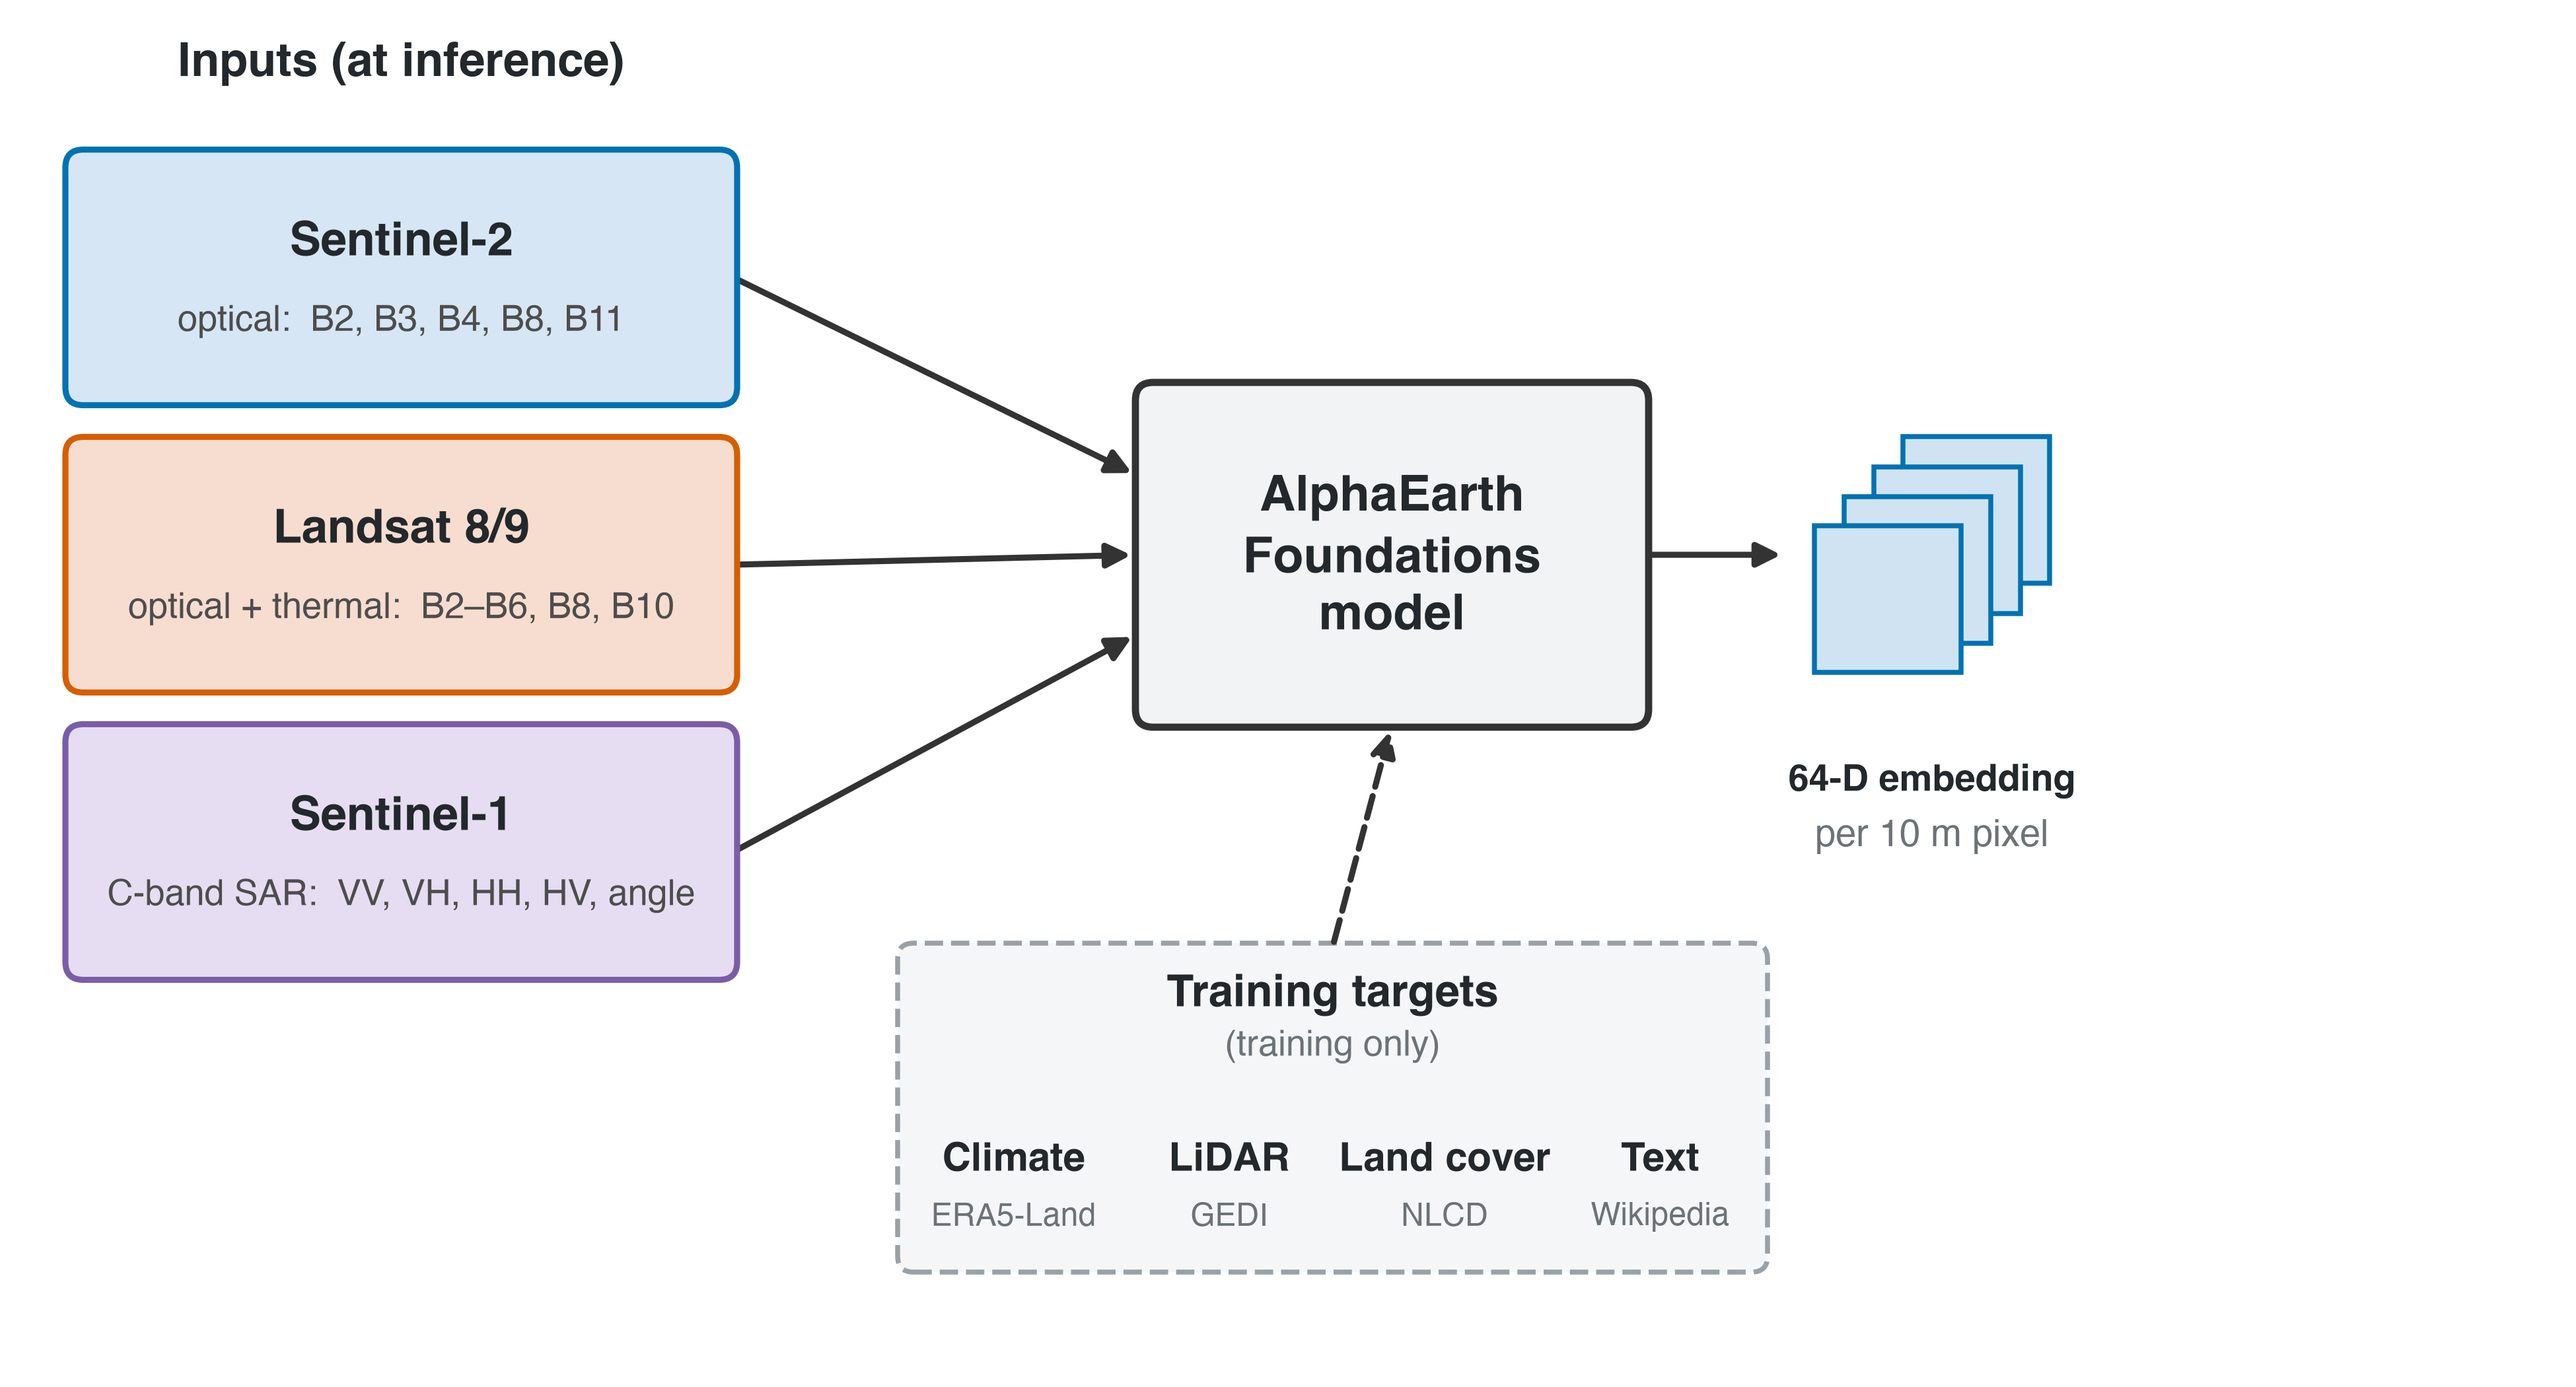
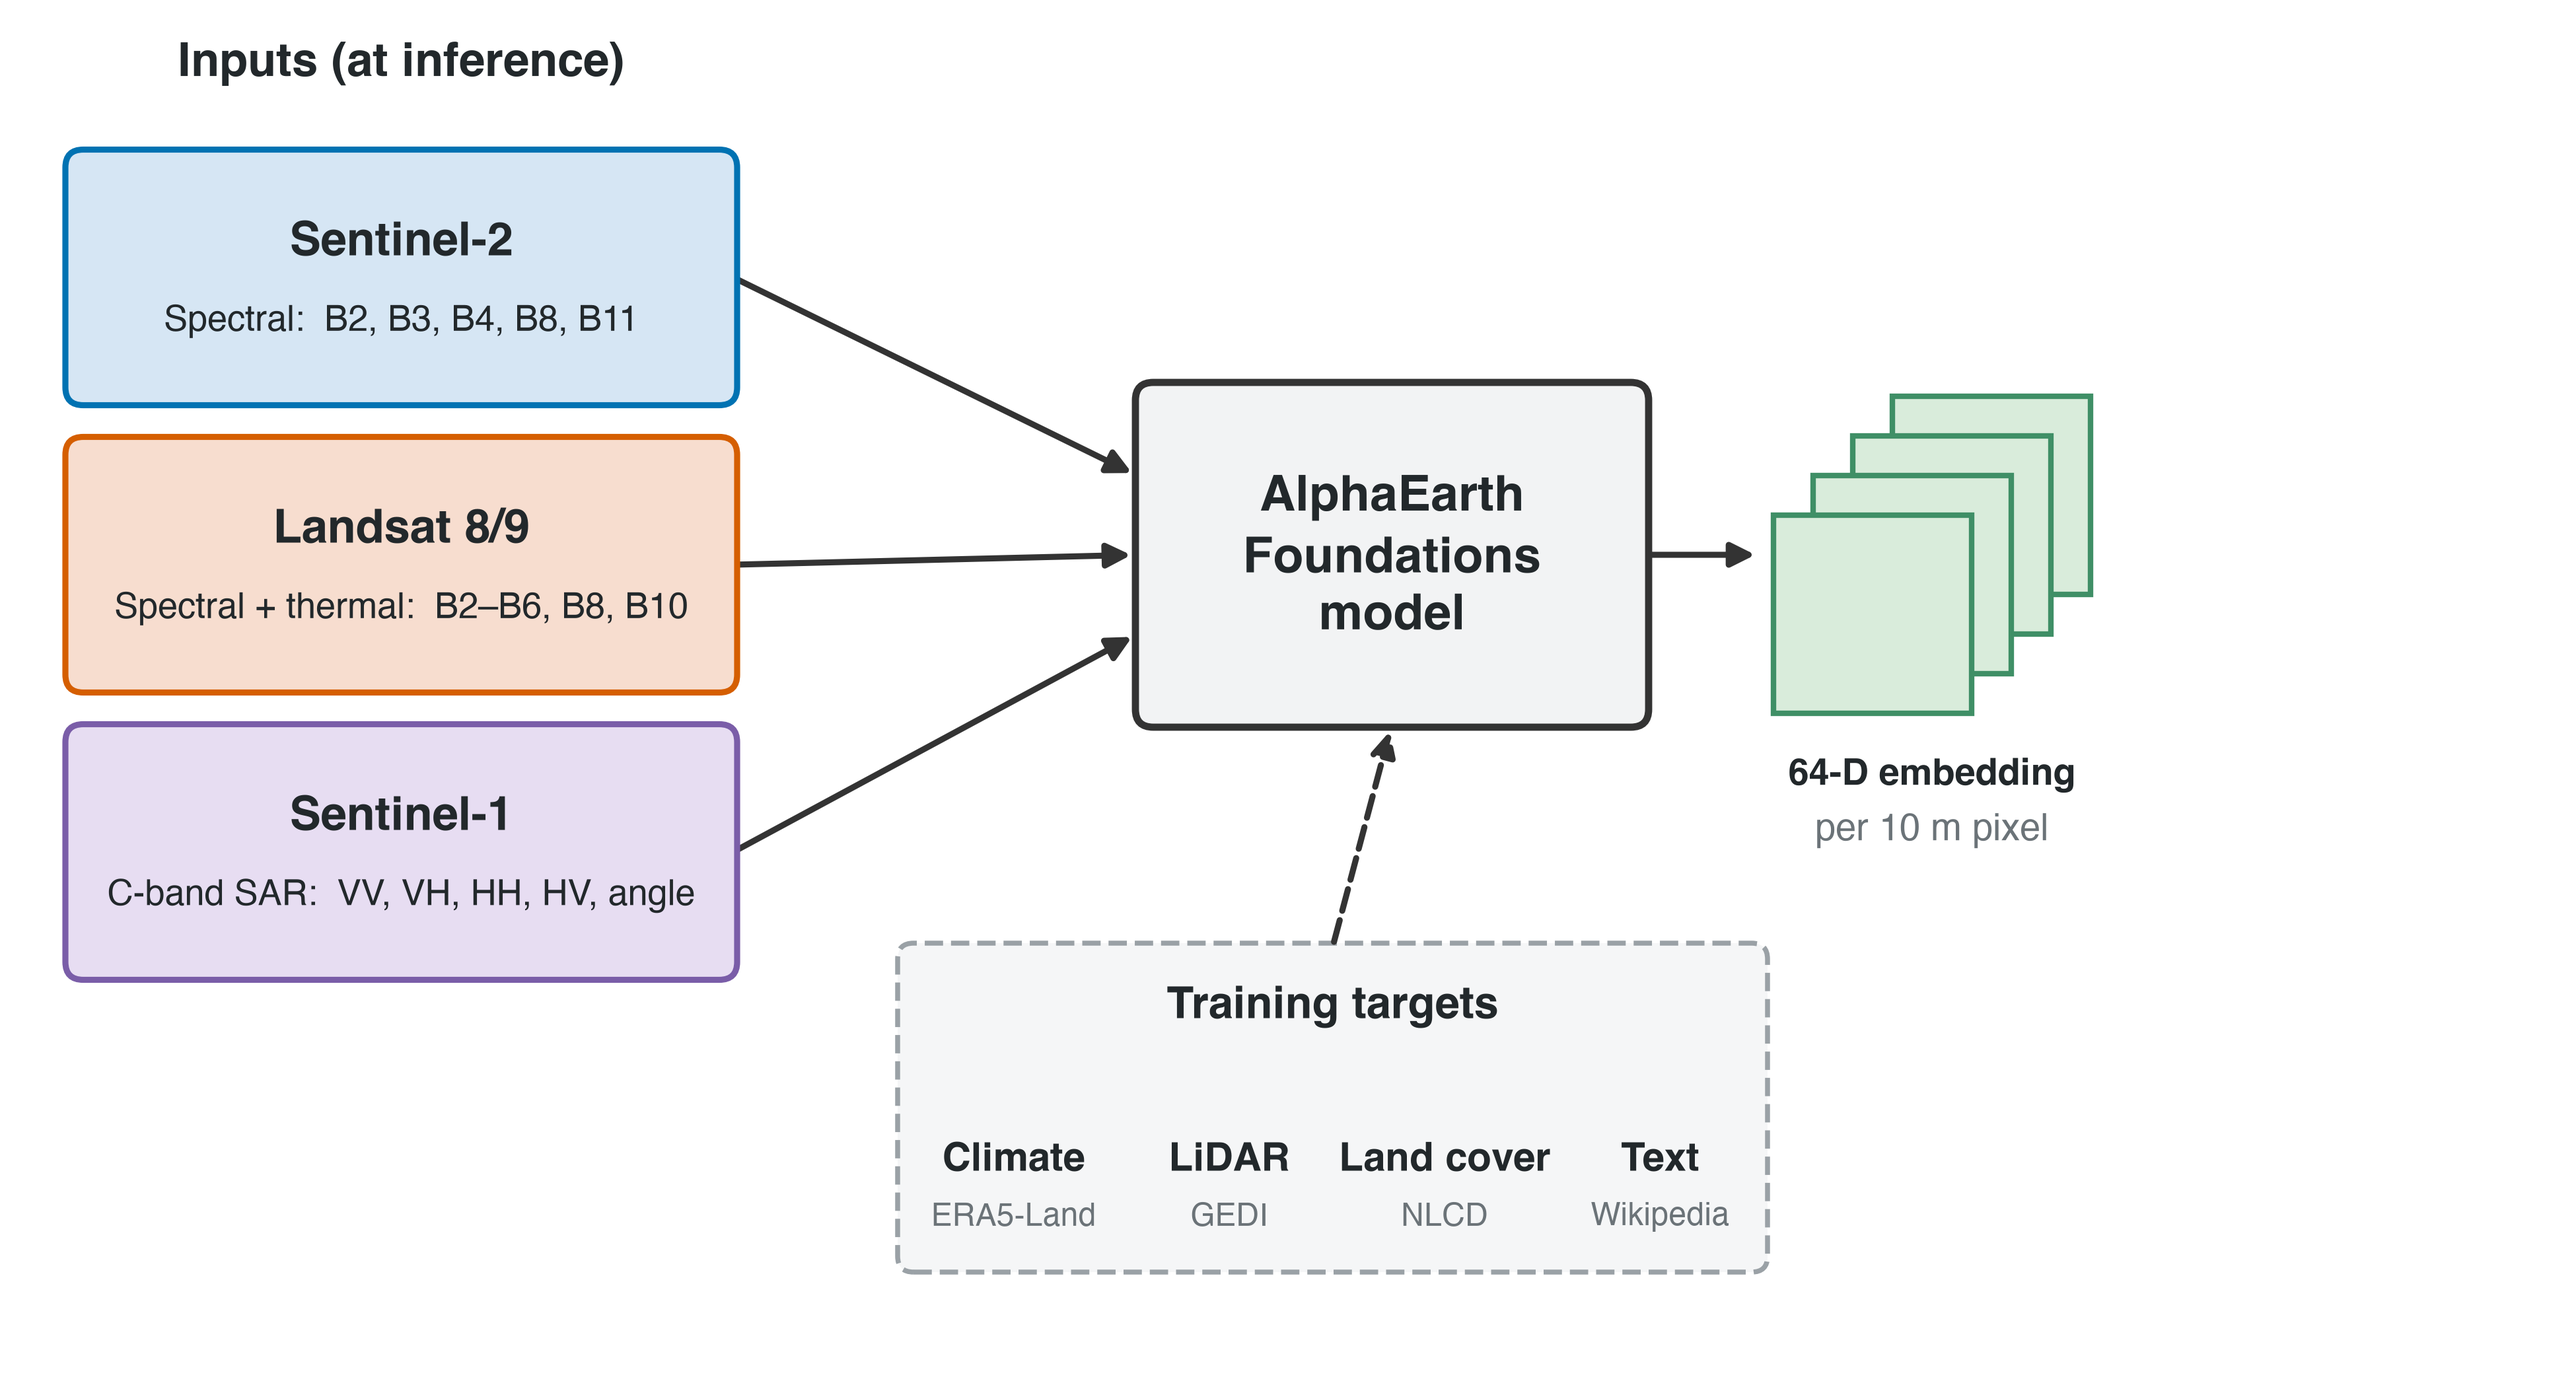
pres_03_b: drop (training only), bigger green embedding stack, black input text, 'Spectral'
Removed the (training only) sub-line, enlarged the output stack and recolored it
green (distinct from Sentinel-2 blue), made all input-box text black, and relabelled
the optical descriptors as 'Spectral'.

diff --git a/presentation/scripts/pres_03_aef_schematic_b.py b/presentation/scripts/pres_03_aef_schematic_b.py
@@ -24,7 +24,9 @@ OUT = os.path.join(ROOT, "presentation", "figures")
 TEXT, MUTED, ARROW = "#22282B", "#6B7378", "#333333"
 MODEL_FILL, MODEL_EDGE = "#F2F3F4", "#333333"
 TGT_FILL, TGT_EDGE = "#F5F6F7", "#9AA1A6"
-EMB_FILL, EMB_EDGE = "#cfe3f2", "#0072B2"
+EMB_FILL, EMB_EDGE = "#d9ecdb", "#3f8f66"        # green output, distinct from Sentinel-2 blue
+EMB_S, EMB_OFF, EMB_N = 1.0, 0.2, 4
+EMB_BBOX = EMB_S + (EMB_N - 1) * EMB_OFF
 plt.rcParams.update({"font.family": "sans-serif",
                      "font.sans-serif": ["Helvetica", "Arial", "DejaVu Sans"]})
 FS_SECTION, FS_TITLE, FS_SUB, FS_MODEL = 17, 17, 13, 18
@@ -32,8 +34,8 @@ FS_TGT, FS_TGT_EX, FS_EMB = 14.5, 11.5, 13.5
 
 FIG_W, FIG_H = 13.0, 7.0
 SENSORS = [  # (title, sub, fill, edge, y_center)
-    ("Sentinel-2", "optical:  B2, B3, B4, B8, B11", "#d6e6f4", "#0072B2", 5.6),
-    ("Landsat 8/9", "optical + thermal:  B2–B6, B8, B10", "#f7ddcf", "#D55E00", 4.15),
+    ("Sentinel-2", "Spectral:  B2, B3, B4, B8, B11", "#d6e6f4", "#0072B2", 5.6),
+    ("Landsat 8/9", "Spectral + thermal:  B2–B6, B8, B10", "#f7ddcf", "#D55E00", 4.15),
     ("Sentinel-1", "C-band SAR:  VV, VH, HH, HV, angle", "#e7ddf2", "#7A5DA8", 2.7)]
 SX, SW, SH = 0.35, 3.35, 1.25                    # input box x-left, width, height
 TARGETS = [("Climate", "ERA5-Land"), ("LiDAR", "GEDI"), ("Land cover", "NLCD"), ("Text", "Wikipedia")]
@@ -47,7 +49,7 @@ def _box(ax, x, y, w, h, fill, edge, title, sub, lw=2.2):
     cx = x + w / 2
     ax.text(cx, y + h / 2 + 0.18, title, ha="center", va="center", fontsize=FS_TITLE,
             fontweight="bold", color=TEXT, zorder=4)
-    ax.text(cx, y + h / 2 - 0.22, sub, ha="center", va="center", fontsize=FS_SUB, color="0.3",
+    ax.text(cx, y + h / 2 - 0.22, sub, ha="center", va="center", fontsize=FS_SUB, color=TEXT,
             zorder=4)
 
 
@@ -57,12 +59,12 @@ def _arrow(ax, p0, p1, dashed=False):
                                  linestyle="--" if dashed else "-"))
 
 
-def _stack(ax, cx, cy, n=4, s=0.74, off=0.15):
-    bbox = s + (n - 1) * off
-    bl = (cx - bbox / 2, cy - bbox / 2)
-    for i in range(n - 1, -1, -1):
-        ax.add_patch(Rectangle((bl[0] + i * off, bl[1] + i * off), s, s, facecolor=EMB_FILL,
-                               edgecolor=EMB_EDGE, linewidth=1.8, zorder=3 + (n - 1 - i)))
+def _stack(ax, cx, cy):
+    bl = (cx - EMB_BBOX / 2, cy - EMB_BBOX / 2)
+    for i in range(EMB_N - 1, -1, -1):
+        ax.add_patch(Rectangle((bl[0] + i * EMB_OFF, bl[1] + i * EMB_OFF), EMB_S, EMB_S,
+                               facecolor=EMB_FILL, edgecolor=EMB_EDGE, linewidth=2.0,
+                               zorder=3 + (EMB_N - 1 - i)))
 
 
 def main():
@@ -87,22 +89,20 @@ def main():
             fontsize=FS_MODEL, fontweight="bold", color=TEXT, linespacing=1.25, zorder=4)
 
     # output embedding as an overlapping stack of layers
-    _arrow(ax, (mx + mw, my + mh / 2), (EMB_CX - 0.72, EMB_CY))
+    _arrow(ax, (mx + mw, my + mh / 2), (EMB_CX - EMB_BBOX / 2 - 0.05, EMB_CY))
     _stack(ax, EMB_CX, EMB_CY)
-    ax.text(EMB_CX, EMB_CY - 1.05, "64-D embedding", ha="center", va="top", fontsize=FS_EMB,
+    ebot = EMB_CY - EMB_BBOX / 2
+    ax.text(EMB_CX, ebot - 0.22, "64-D embedding", ha="center", va="top", fontsize=FS_EMB,
             fontweight="bold", color=TEXT)
-    ax.text(EMB_CX, EMB_CY - 1.33, "per 10 m pixel", ha="center", va="top", fontsize=FS_EMB,
-            color=MUTED)
+    ax.text(EMB_CX, ebot - 0.5, "per 10 m pixel", ha="center", va="top", fontsize=FS_EMB, color=MUTED)
 
     # training targets (training only): an additional step feeding the model
     tx, ty, tw, th = 4.55, 0.6, 4.35, 1.62
     ax.add_patch(FancyBboxPatch((tx, ty), tw, th, boxstyle="round,pad=0.02,rounding_size=0.08",
                                 facecolor=TGT_FILL, edgecolor=TGT_EDGE, linewidth=1.8, linestyle="--",
                                 zorder=1))
-    ax.text(tx + tw / 2, ty + th - 0.24, "Training targets", ha="center", va="center",
+    ax.text(tx + tw / 2, ty + th - 0.3, "Training targets", ha="center", va="center",
             fontsize=FS_SECTION - 1, fontweight="bold", color=TEXT, zorder=4)
-    ax.text(tx + tw / 2, ty + th - 0.5, "(training only)", ha="center", va="center", fontsize=FS_SUB,
-            color=MUTED, zorder=4)
     cxs = [tx + tw * f for f in (0.13, 0.38, 0.63, 0.88)]
     for (cat, ex), cxx in zip(TARGETS, cxs):
         ax.text(cxx, ty + 0.55, cat, ha="center", va="center", fontsize=FS_TGT, fontweight="bold",
